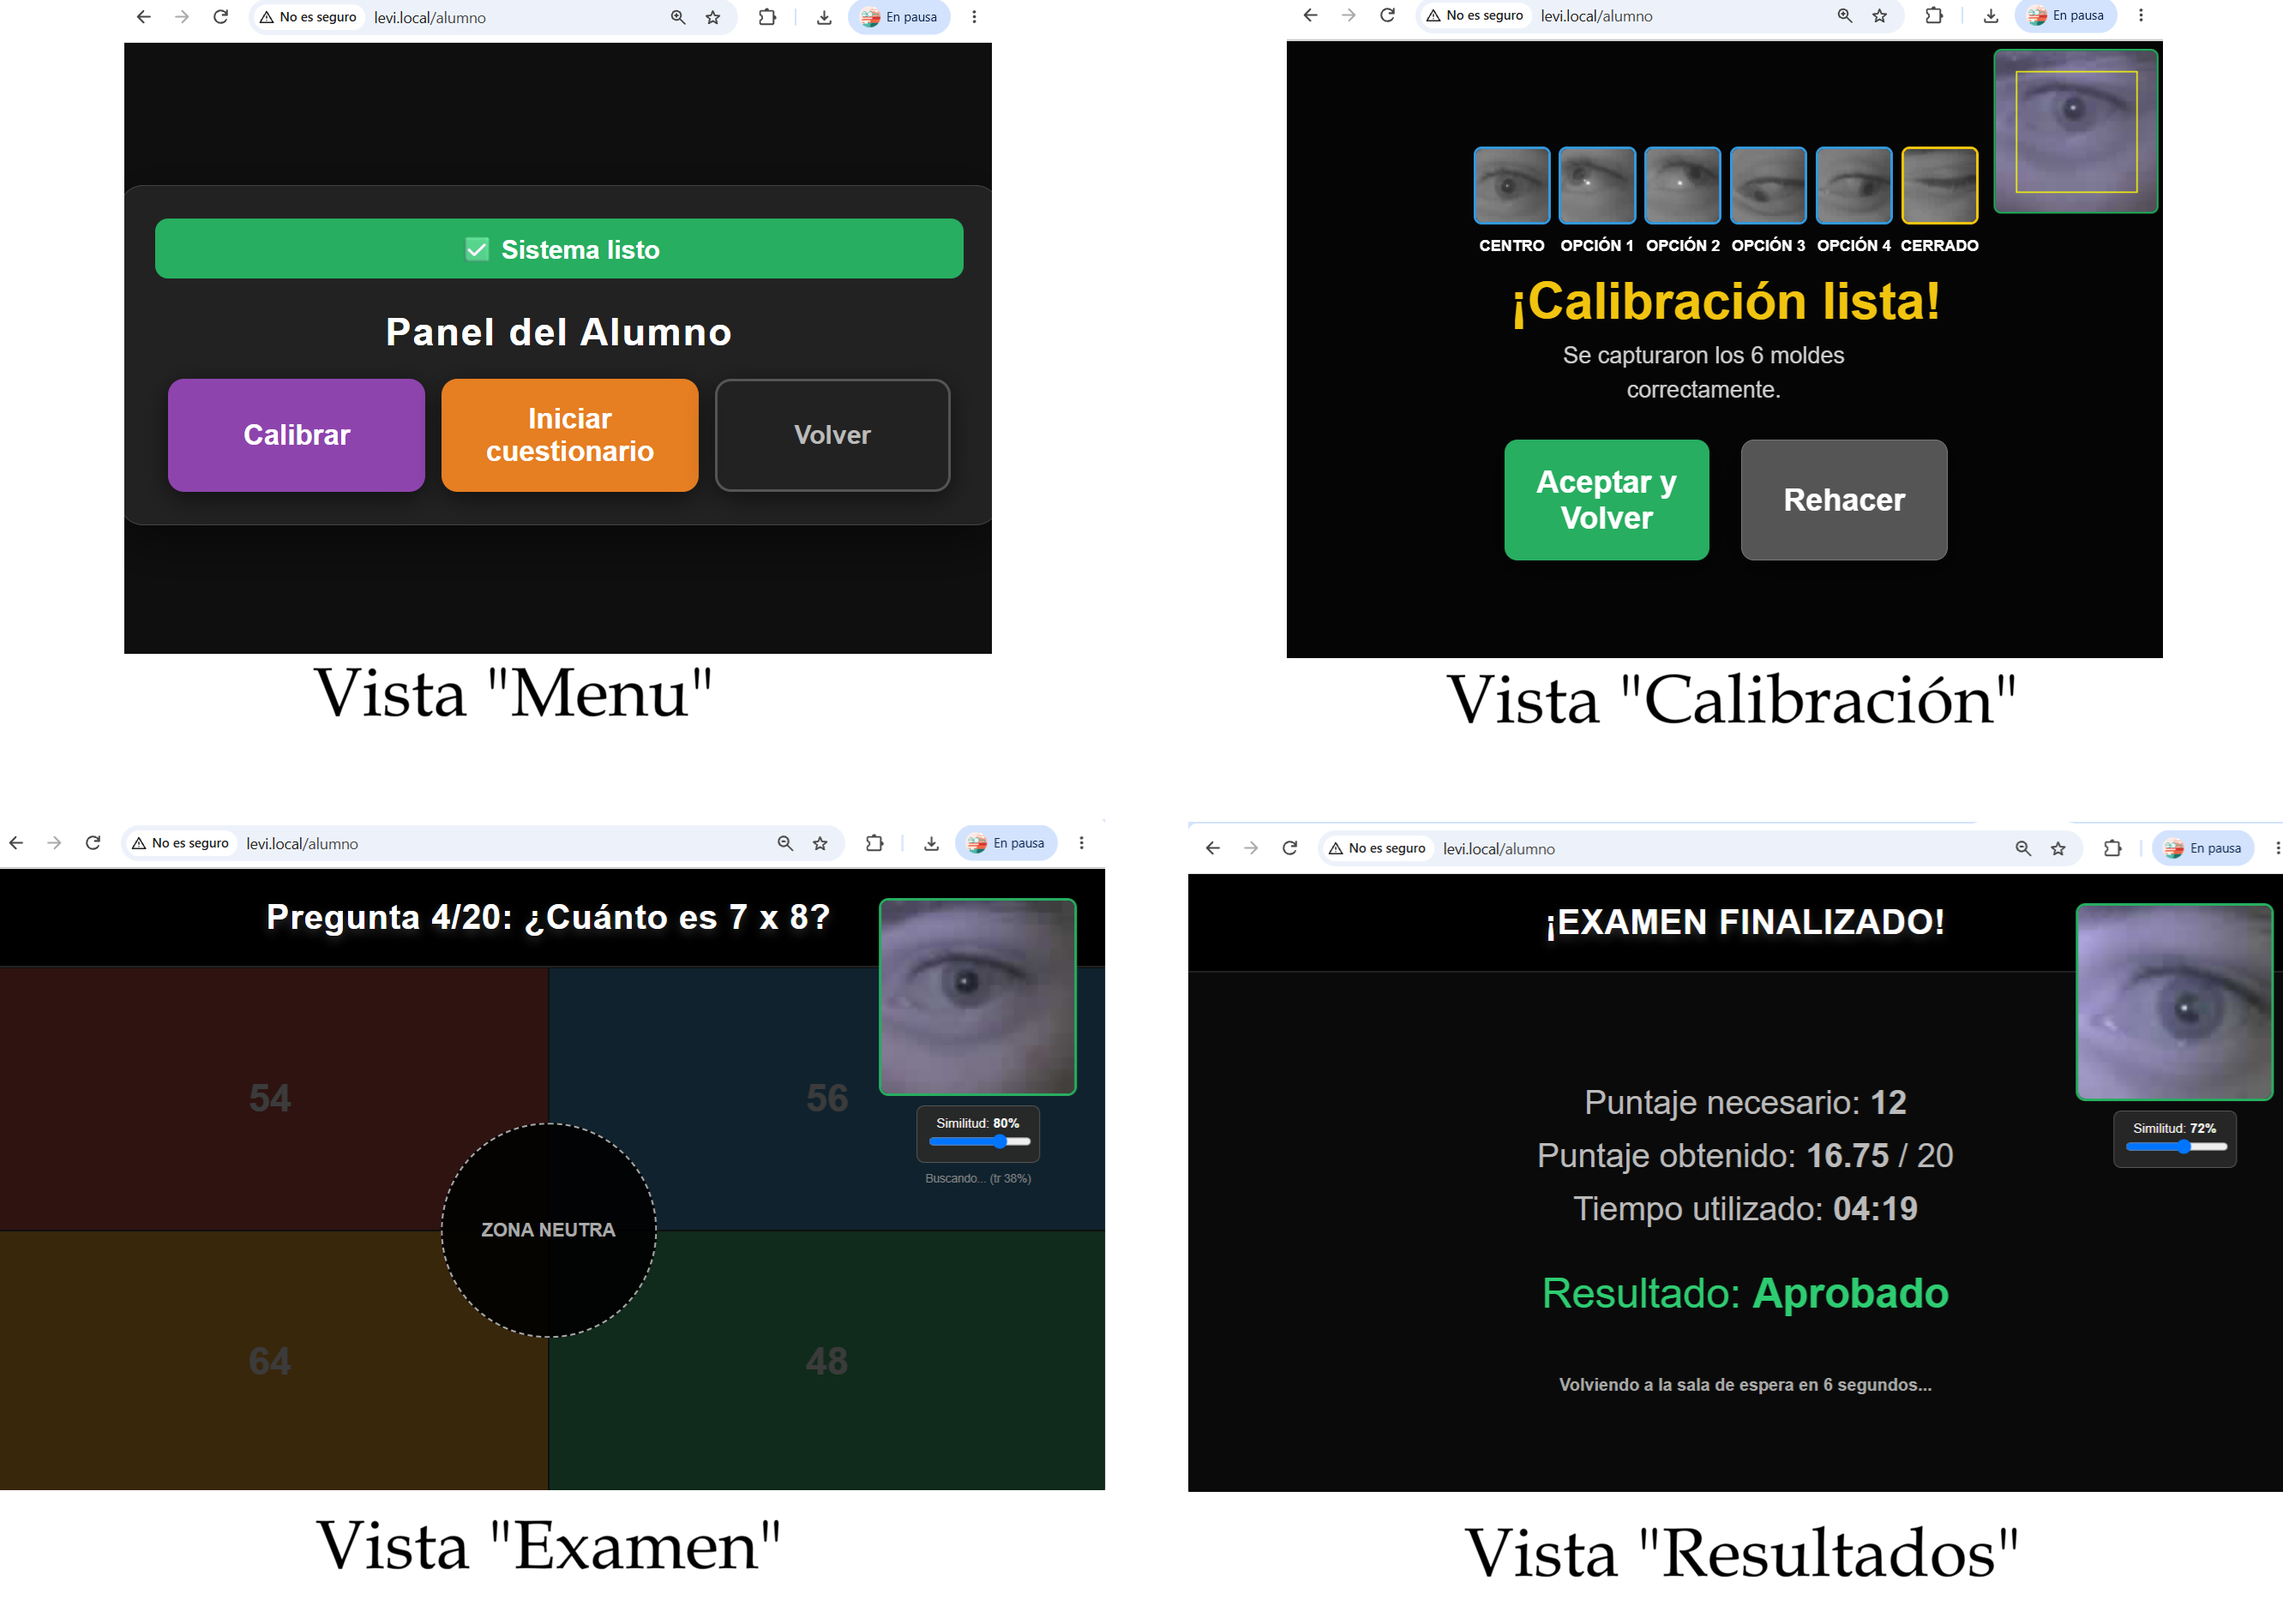
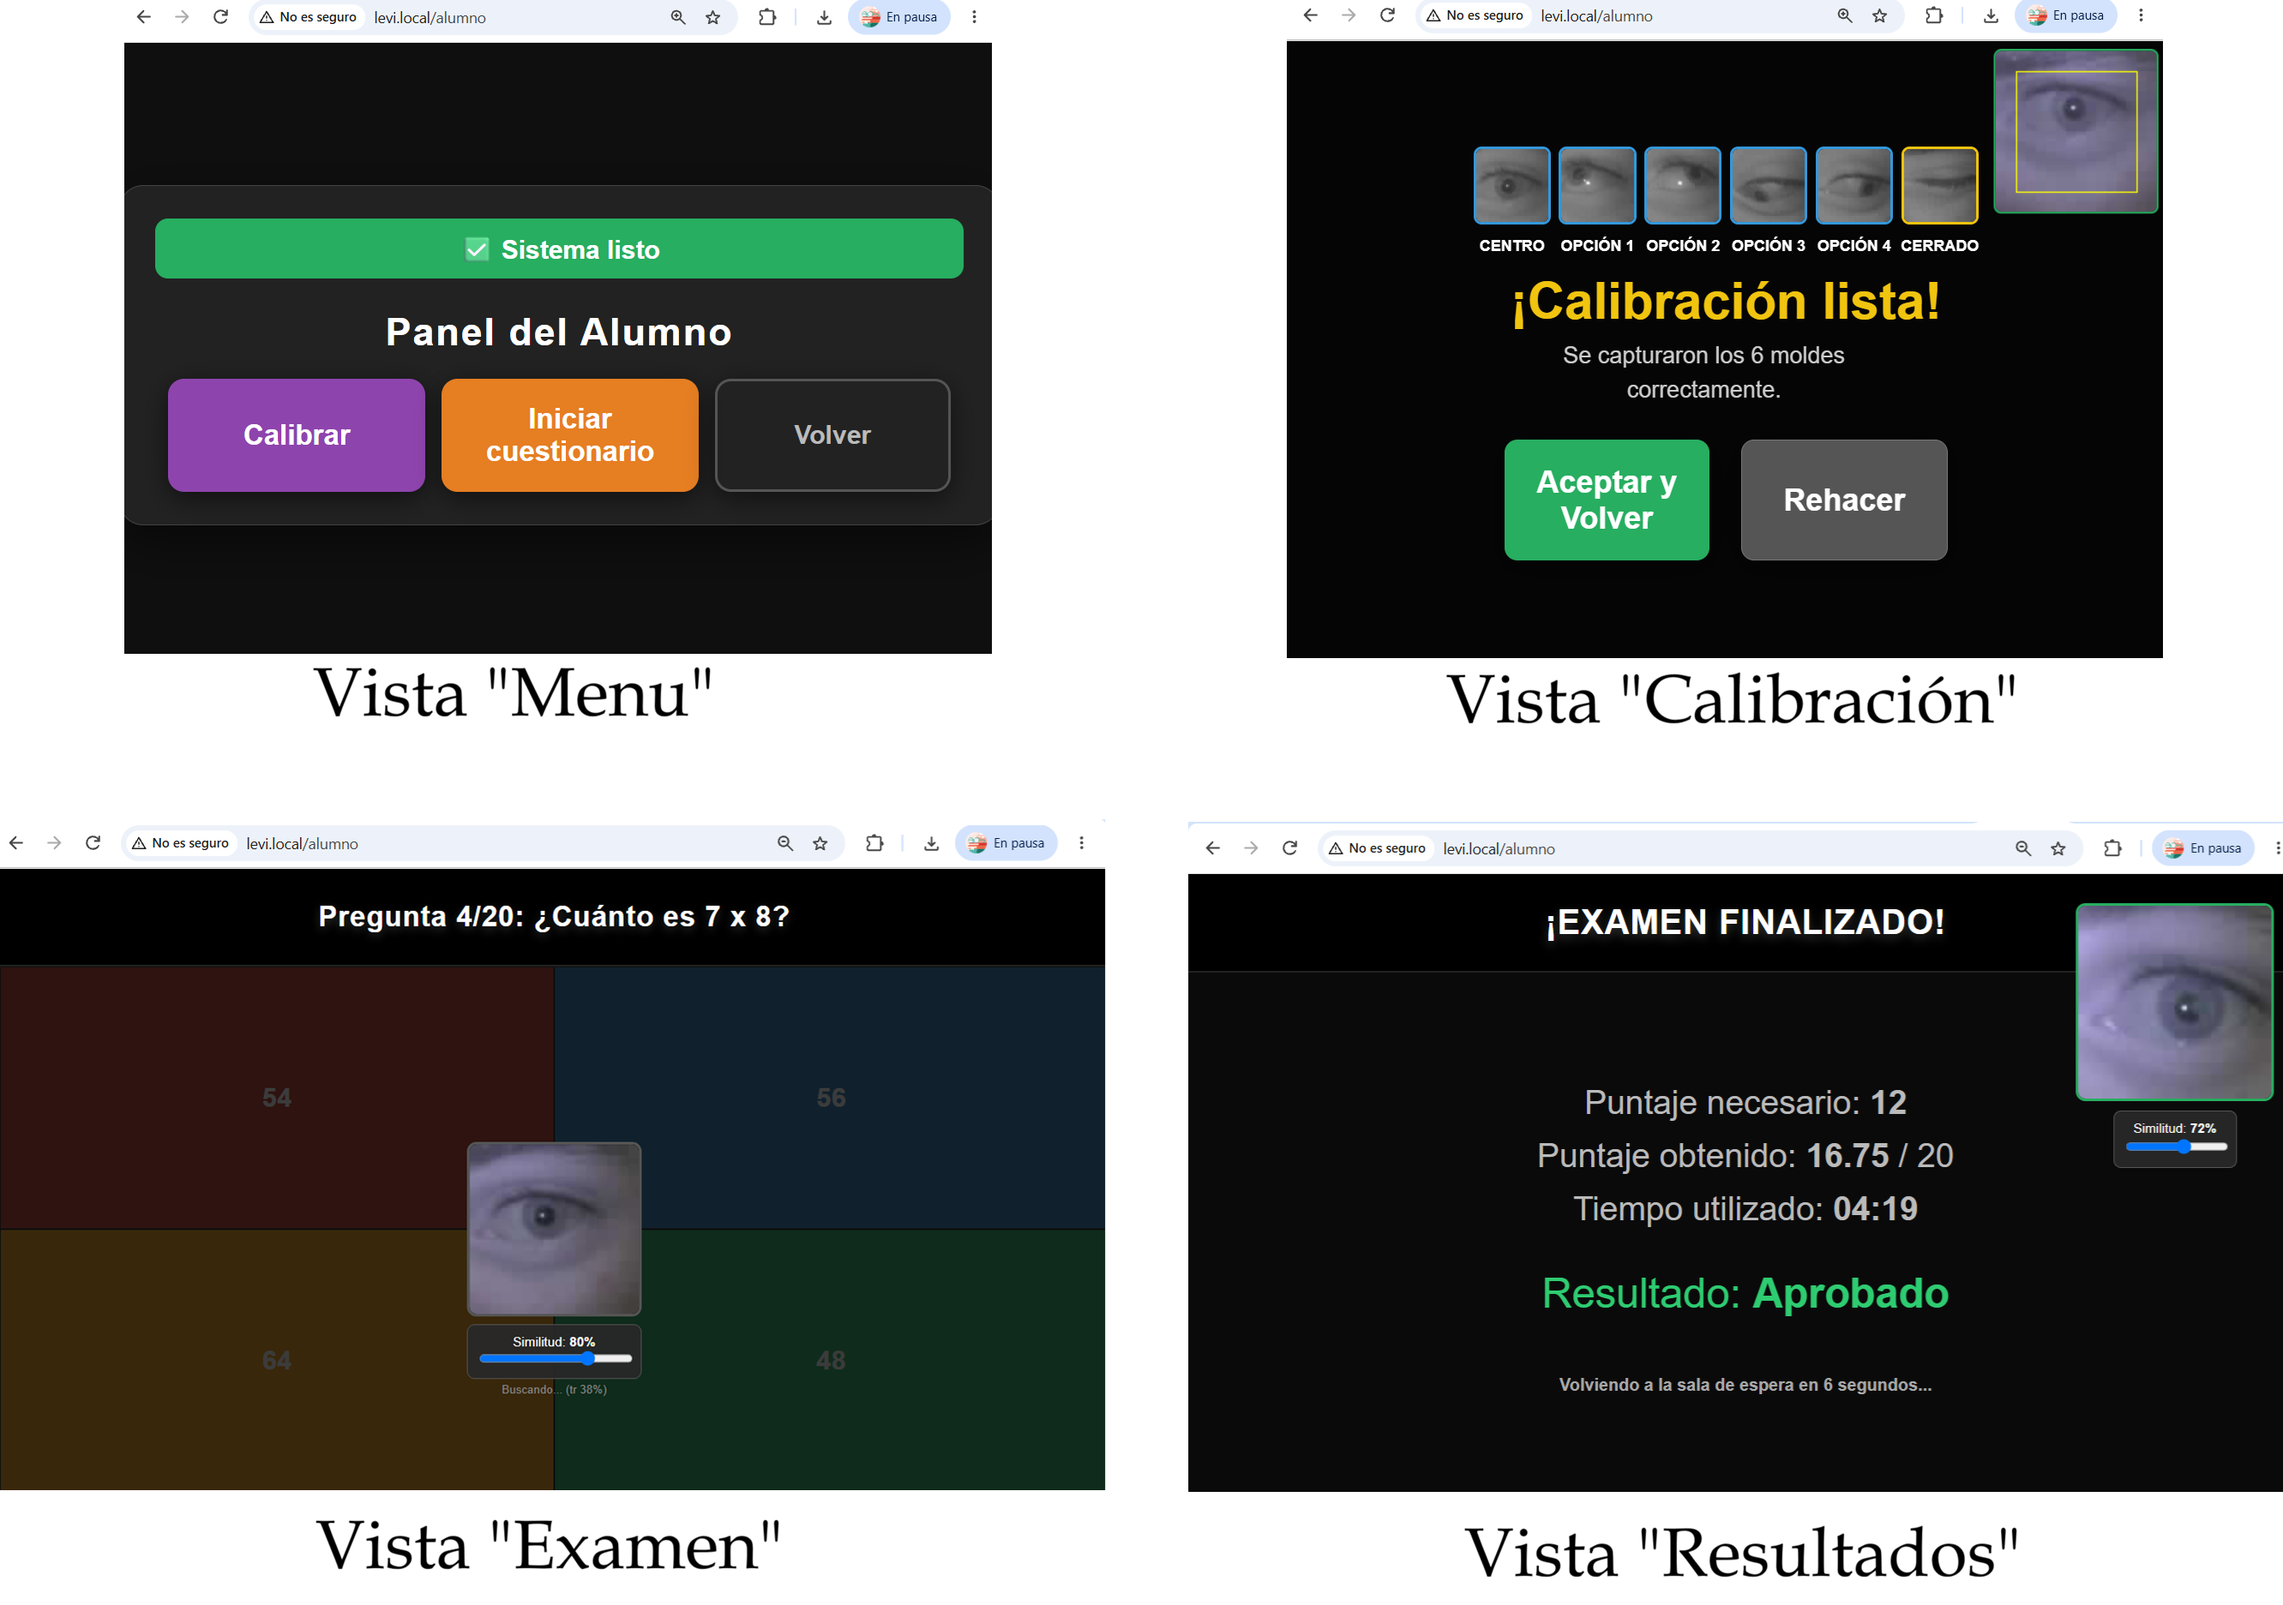
Vista Examen: video y umbral de similitud en la zona neutra

diff --git a/Trabajo_de_Graduación_Natalia_Carolina_Borbón___Facundo_Ordoñez_Nadra/capitulos/capitulo3.tex b/Trabajo_de_Graduación_Natalia_Carolina_Borbón___Facundo_Ordoñez_Nadra/capitulos/capitulo3.tex
@@ -1784,7 +1784,7 @@ El alumno ingresa sin autenticarse. Su pantalla reúne cuatro vistas que se alte
 %\item Calibración (figura \ref{fig:alumnocalibracion}): muestra seis recuadros, uno por cada plantilla, y la imagen del ojo que se analiza. Presenta un botón de inicio y uno de retorno. Durante la secuencia, un mensaje indica hacia dónde debe mirar el alumno y una cuenta regresiva anuncia cada captura. El proceso puede abortarse voluntariamente con un botón. Al finalizar, las plantillas aparecen en sus recuadros y el alumno puede guardarlas o repetir el proceso. Si ya existe una calibración realizada en la misma sesión, el botón de inicio ofrece recalibrar. Esta calibración antigua, almacenada en la memoria de sesión del navegador, se mantiene disponible mientras la pestaña permanezca abierta.
 \item Calibración (figura \ref{fig:alumnocalibracion}): muestra seis recuadros, uno por cada plantilla, y la imagen del ojo que se analiza. Presenta un botón de inicio y uno de retorno. Durante la secuencia, un mensaje indica hacia dónde debe mirar el alumno y una cuenta regresiva anuncia cada captura. El proceso puede abortarse voluntariamente con un botón. Al finalizar, las plantillas aparecen en sus recuadros y el alumno puede guardarlas o repetir el proceso. Si ya existe una calibración guardada, el botón de inicio ofrece recalibrar. Esa calibración permanece en el navegador aunque se cierre la pestaña, como se explicó en la sección \ref{sec:template_matching}.
 
-\item Examen (figura \ref{fig:alumnoexamen}): muestra en una esquina la imagen del ojo, junto con un control deslizante que ajusta el umbral de similitud. Mientras no haya un cuestionario en curso ni una pregunta de invitado, la pantalla queda en espera. Cuando llega una pregunta presenta el enunciado y cuatro cuadrantes, uno por opción, con una zona neutra en el centro. Si se trata de una pregunta de examen, se incluye en el encabezado el número de pregunta. Cada cuadrante posee un color distintivo. La pantalla se divide siempre en cuatro, aunque la pregunta tenga menos opciones. En este último caso, los cuadrantes sobrantes quedan vacíos y se ignoran, de modo que las posiciones coinciden con las de la calibración.
+\item Examen (figura \ref{fig:alumnoexamen}): mientras no haya un cuestionario en curso ni una pregunta de invitado, la pantalla queda en espera y muestra en una esquina la imagen del ojo, junto con un control deslizante que ajusta el umbral de similitud. Cuando llega una pregunta presenta el enunciado y cuatro cuadrantes, uno por opción, con una zona neutra en el centro. En esa zona se ubican la imagen del ojo y, debajo, el control deslizante, de modo que no se superponen con el enunciado ni con las opciones. Si se trata de una pregunta de examen, se incluye en el encabezado el número de pregunta. Cada cuadrante posee un color distintivo. La pantalla se divide siempre en cuatro, aunque la pregunta tenga menos opciones. En este último caso, los cuadrantes sobrantes quedan vacíos y se ignoran, de modo que las posiciones coinciden con las de la calibración.
 
 \item Resultado (figura \ref{fig:alumnoresultado}): en el caso de una pregunta de invitado, presenta la pregunta y la opción elegida. En el caso de un examen informa el puntaje obtenido, el máximo posible, el necesario para aprobar, el tiempo empleado y si el alumno aprobó. Después de unos segundos la pantalla vuelve sola a la espera, sin necesidad de pulsar ningún botón.
 
